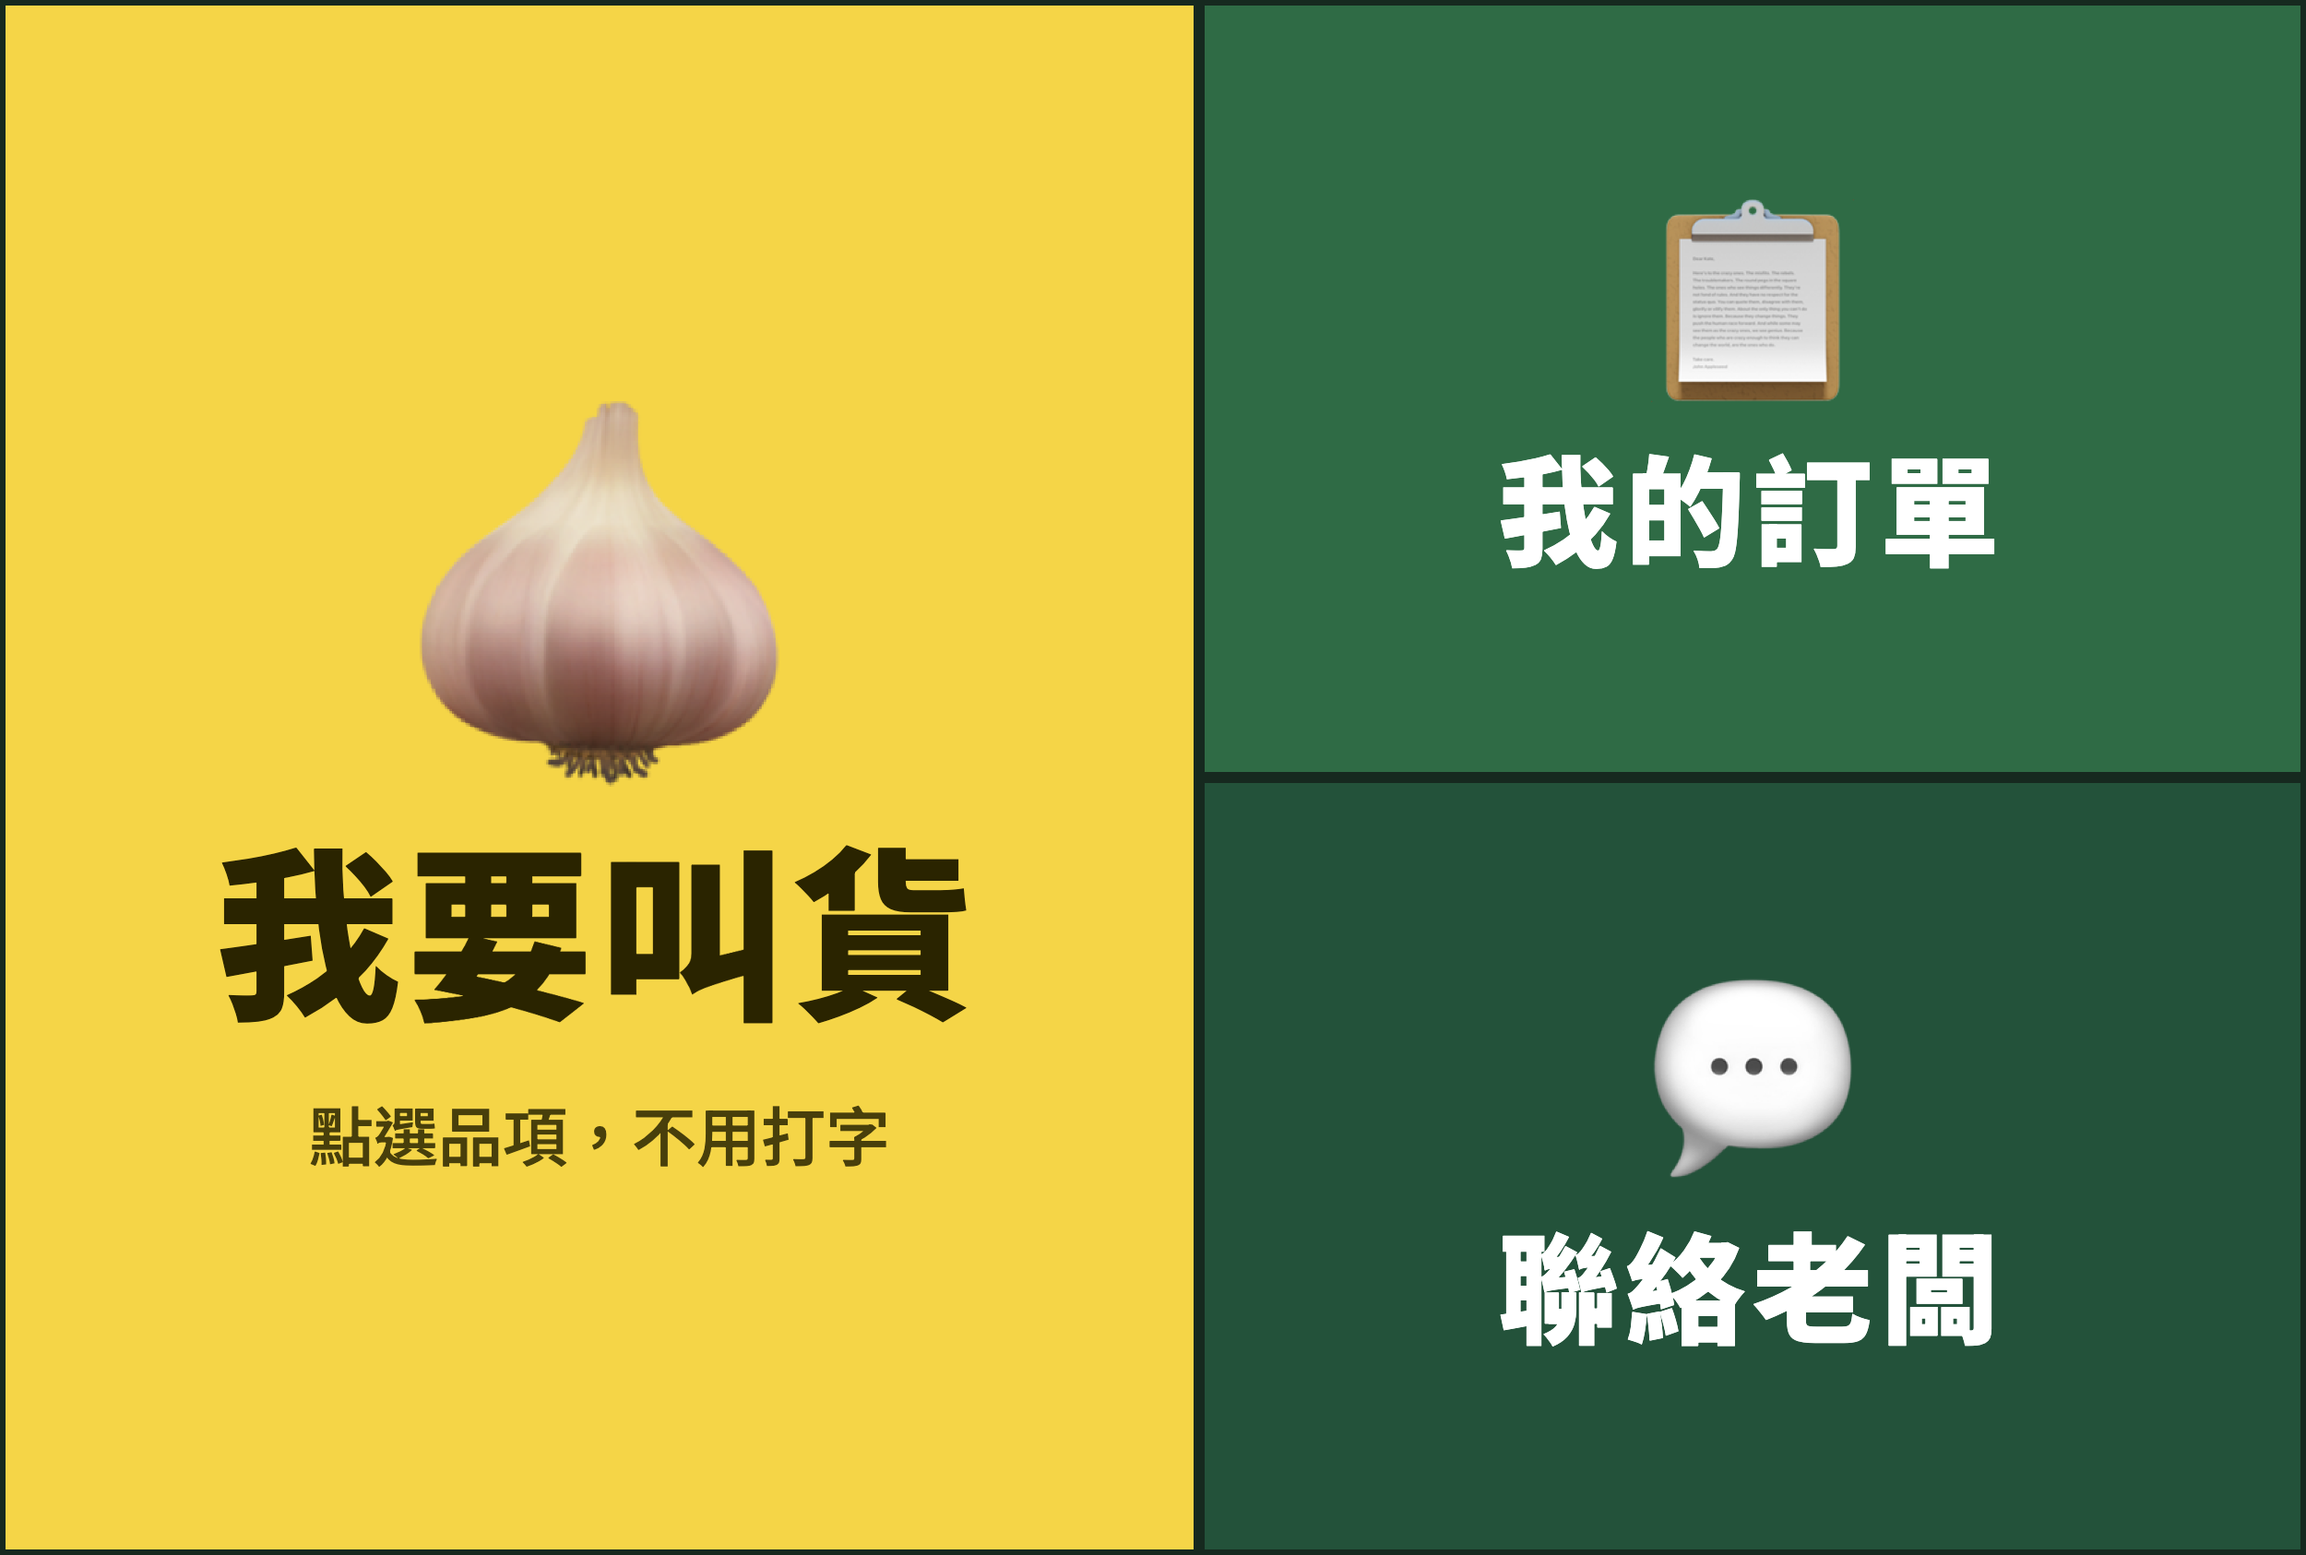
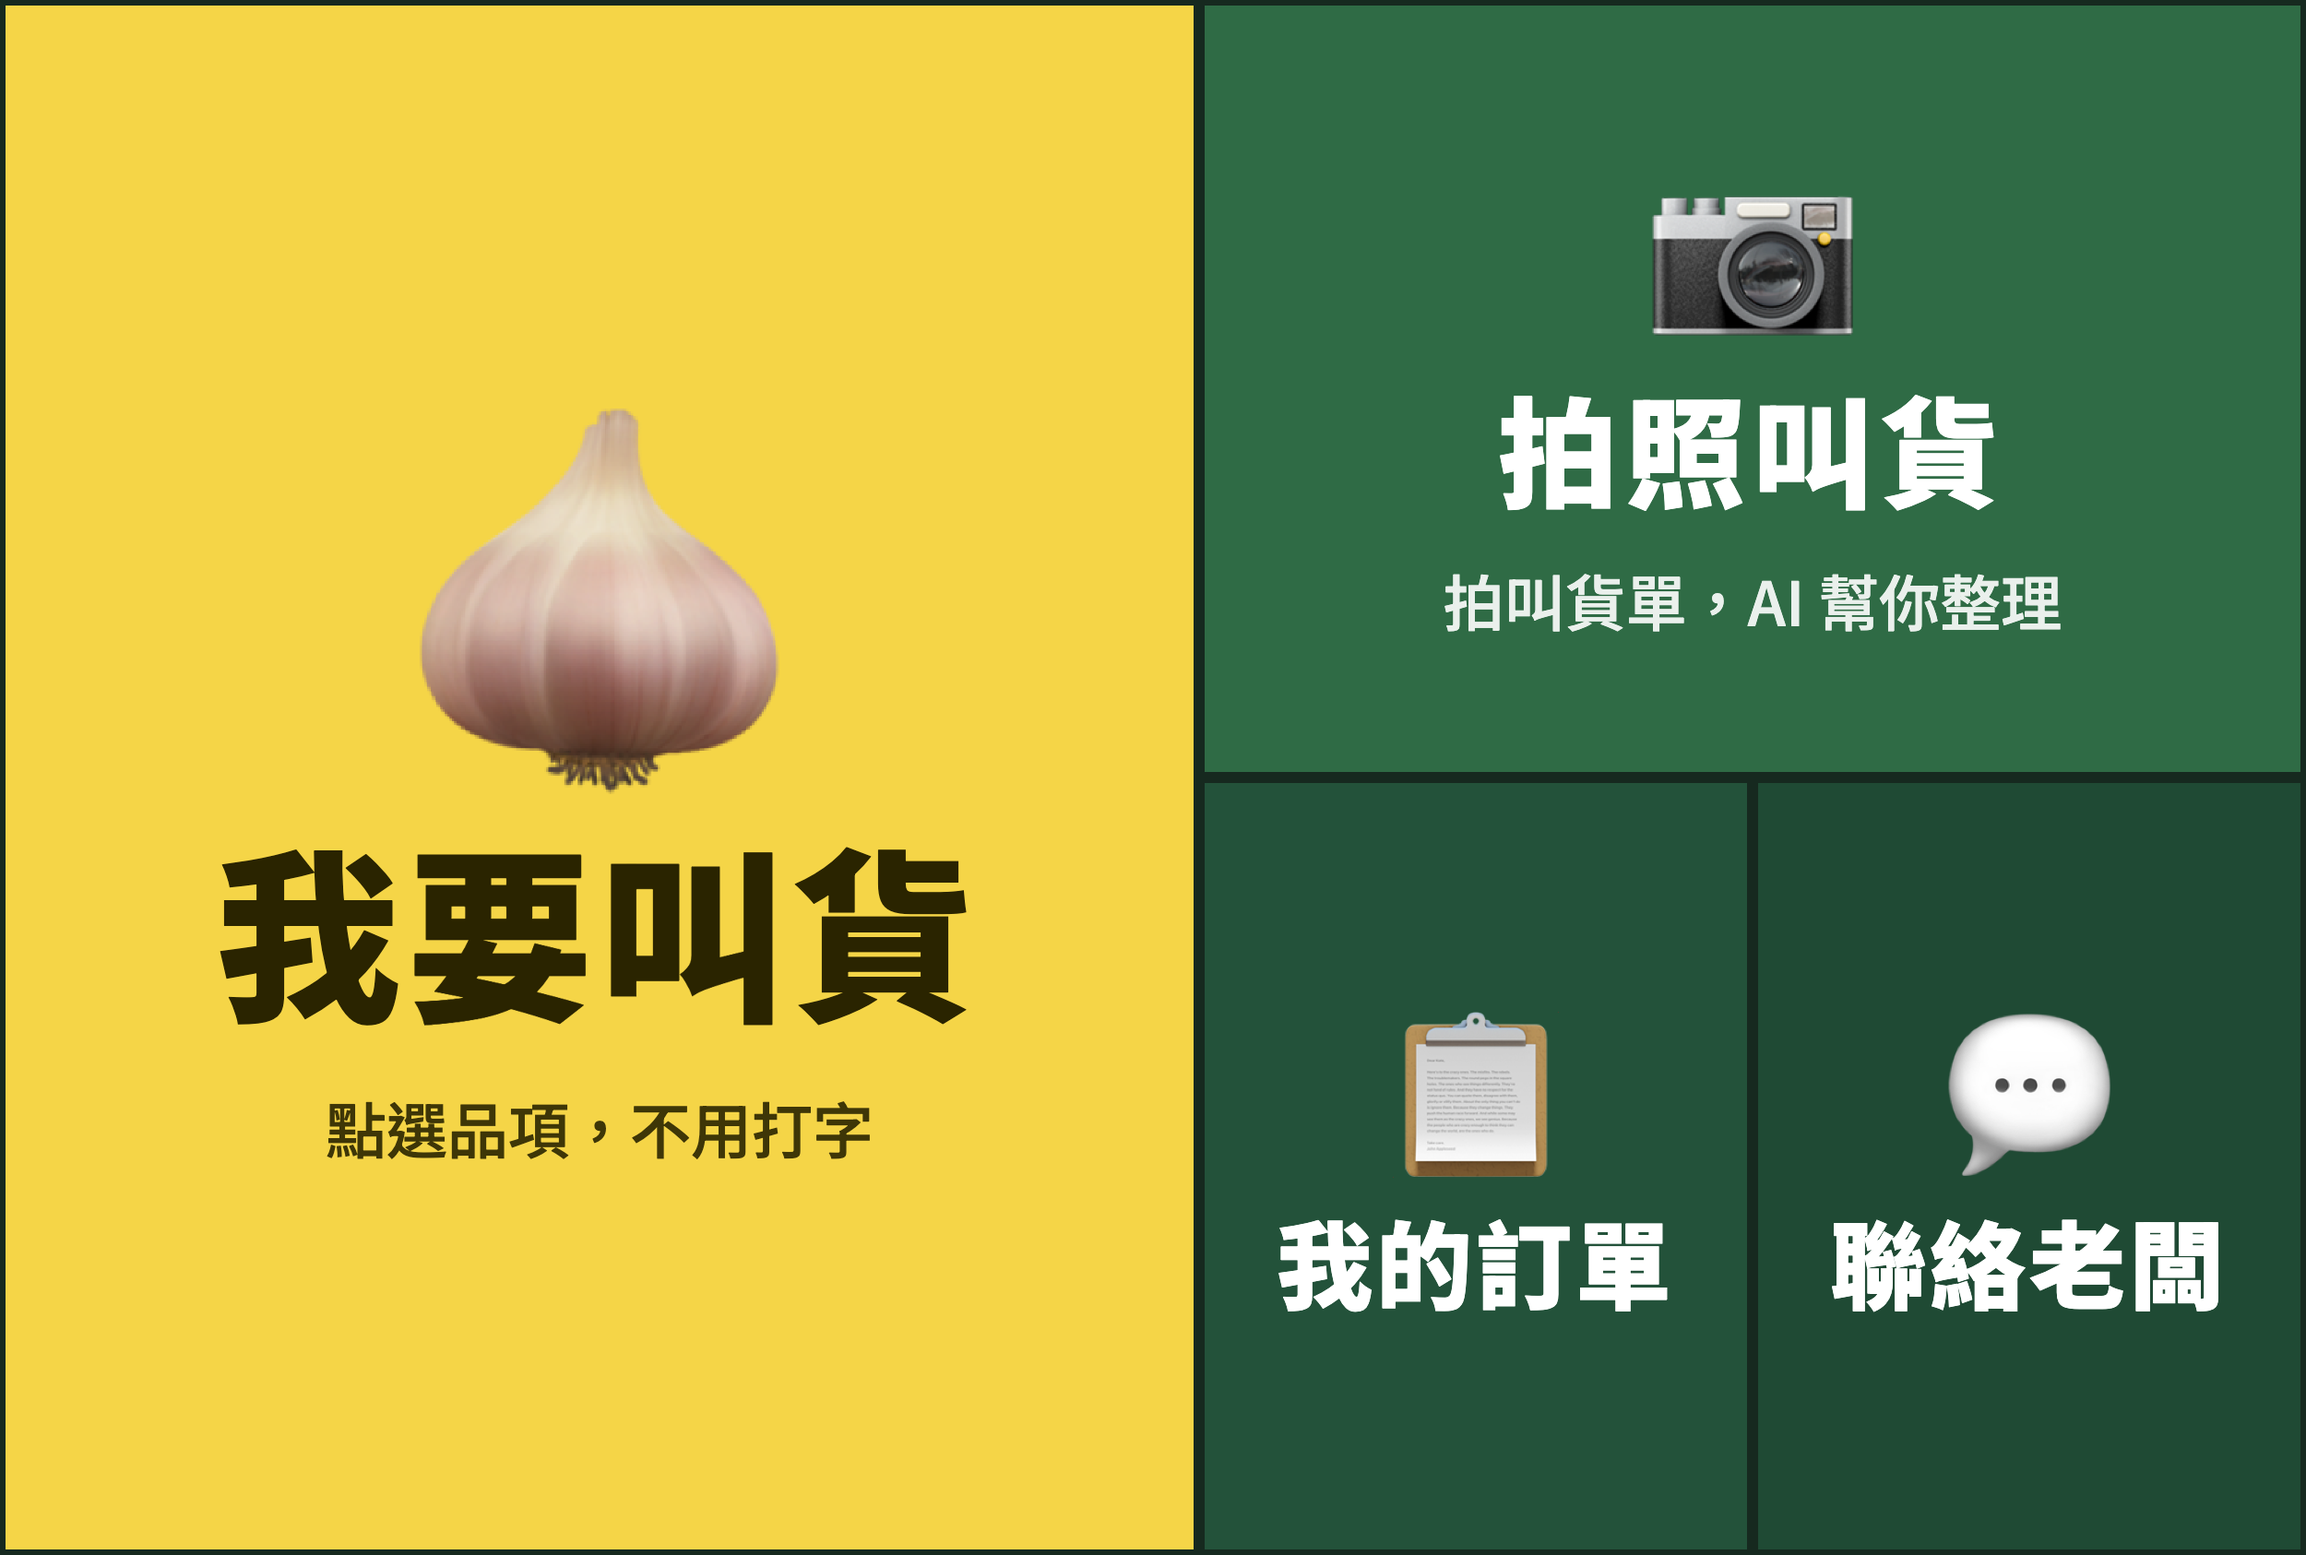
圖文選單新增「拍照叫貨」：點了跳出拍照／相簿按鈕，傳照片給 AI 整理

diff --git a/scripts/richmenu/menu.html b/scripts/richmenu/menu.html
@@ -2,17 +2,22 @@
 <link href="https://fonts.googleapis.com/css2?family=Noto+Sans+TC:wght@500;900&display=swap" rel="stylesheet">
 <style>
 *{box-sizing:border-box;margin:0}
-body{width:2500px;height:1686px;font-family:'Noto Sans TC',sans-serif;display:grid;grid-template-columns:1300px 1200px;grid-template-rows:843px 843px;gap:0;background:#16291F}
-.c{display:flex;flex-direction:column;align-items:center;justify-content:center;gap:30px;color:#fff;border:6px solid #16291F}
+/* 2500×1686：左邊大格 1300 寬；右邊上面「拍照叫貨」，下面「我的訂單｜聯絡老闆」 */
+body{width:2500px;height:1686px;font-family:'Noto Sans TC',sans-serif;display:grid;grid-template-columns:1300px 600px 600px;grid-template-rows:843px 843px;background:#16291F}
+.c{display:flex;flex-direction:column;align-items:center;justify-content:center;gap:24px;color:#fff;border:6px solid #16291F}
 .big{grid-row:span 2;background:#F5D547;color:#2A2400}
-.a{background:#2F6B45}.b{background:#23523A}
+.cam{grid-column:span 2;background:#2F6B45}
+.a{background:#23523A}.b{background:#1F4A34}
 .ic{font-size:300px;line-height:1}
 .big .ic{font-size:420px}
 .t{font-size:150px;font-weight:900;letter-spacing:8px}
 .big .t{font-size:200px}
-.s{font-size:70px;font-weight:500;opacity:.85}
+.s{font-size:66px;font-weight:500;opacity:.9}
+.a .t,.b .t{font-size:104px;letter-spacing:4px}
+.a .ic,.b .ic{font-size:180px}
 </style></head><body>
 <div class="c big"><div class="ic">🧄</div><div class="t">我要叫貨</div><div class="s">點選品項，不用打字</div></div>
-<div class="c a"><div class="ic" style="font-size:220px">📋</div><div class="t" style="font-size:130px">我的訂單</div></div>
-<div class="c b"><div class="ic" style="font-size:220px">💬</div><div class="t" style="font-size:130px">聯絡老闆</div></div>
+<div class="c cam"><div class="ic" style="font-size:220px">📷</div><div class="t" style="font-size:130px">拍照叫貨</div><div class="s">拍叫貨單，AI 幫你整理</div></div>
+<div class="c a"><div class="ic">📋</div><div class="t">我的訂單</div></div>
+<div class="c b"><div class="ic">💬</div><div class="t">聯絡老闆</div></div>
 </body></html>

diff --git a/functions/api/webhook.js b/functions/api/webhook.js
@@ -55,6 +55,18 @@ async function handle(e, origin) {
     return;
   }
 
+  // 圖文選單「拍照叫貨」：回快速回覆按鈕，點了直接開相機或相簿（圖文選單本身不能開相機）
+  if (said === '拍照叫貨' || action === 'photo') {
+    return say({
+      type: 'text',
+      text: '請拍一張叫貨單（手寫的也可以），或從相簿選照片。\n傳過來後大約 20 秒，會整理好給您確認。',
+      quickReply: { items: [
+        { type: 'action', action: { type: 'camera', label: '📷 拍照' } },
+        { type: 'action', action: { type: 'cameraRoll', label: '🖼 從相簿選' } },
+      ] },
+    });
+  }
+
   // AI 叫貨（放在關鍵字前面，「幫我叫貨 大蒜3」才會走 AI）：直接打字（像「大蒜3、去皮15斤」）或傳手寫單照片，交給 aiOrder 函式處理
   if (process.env.AI_ORDER !== 'off') {
     if (said && looksLikeOrder(said)) return queue({ type: 'text', text: said, userId: uid, replyToken: e.replyToken, origin });
